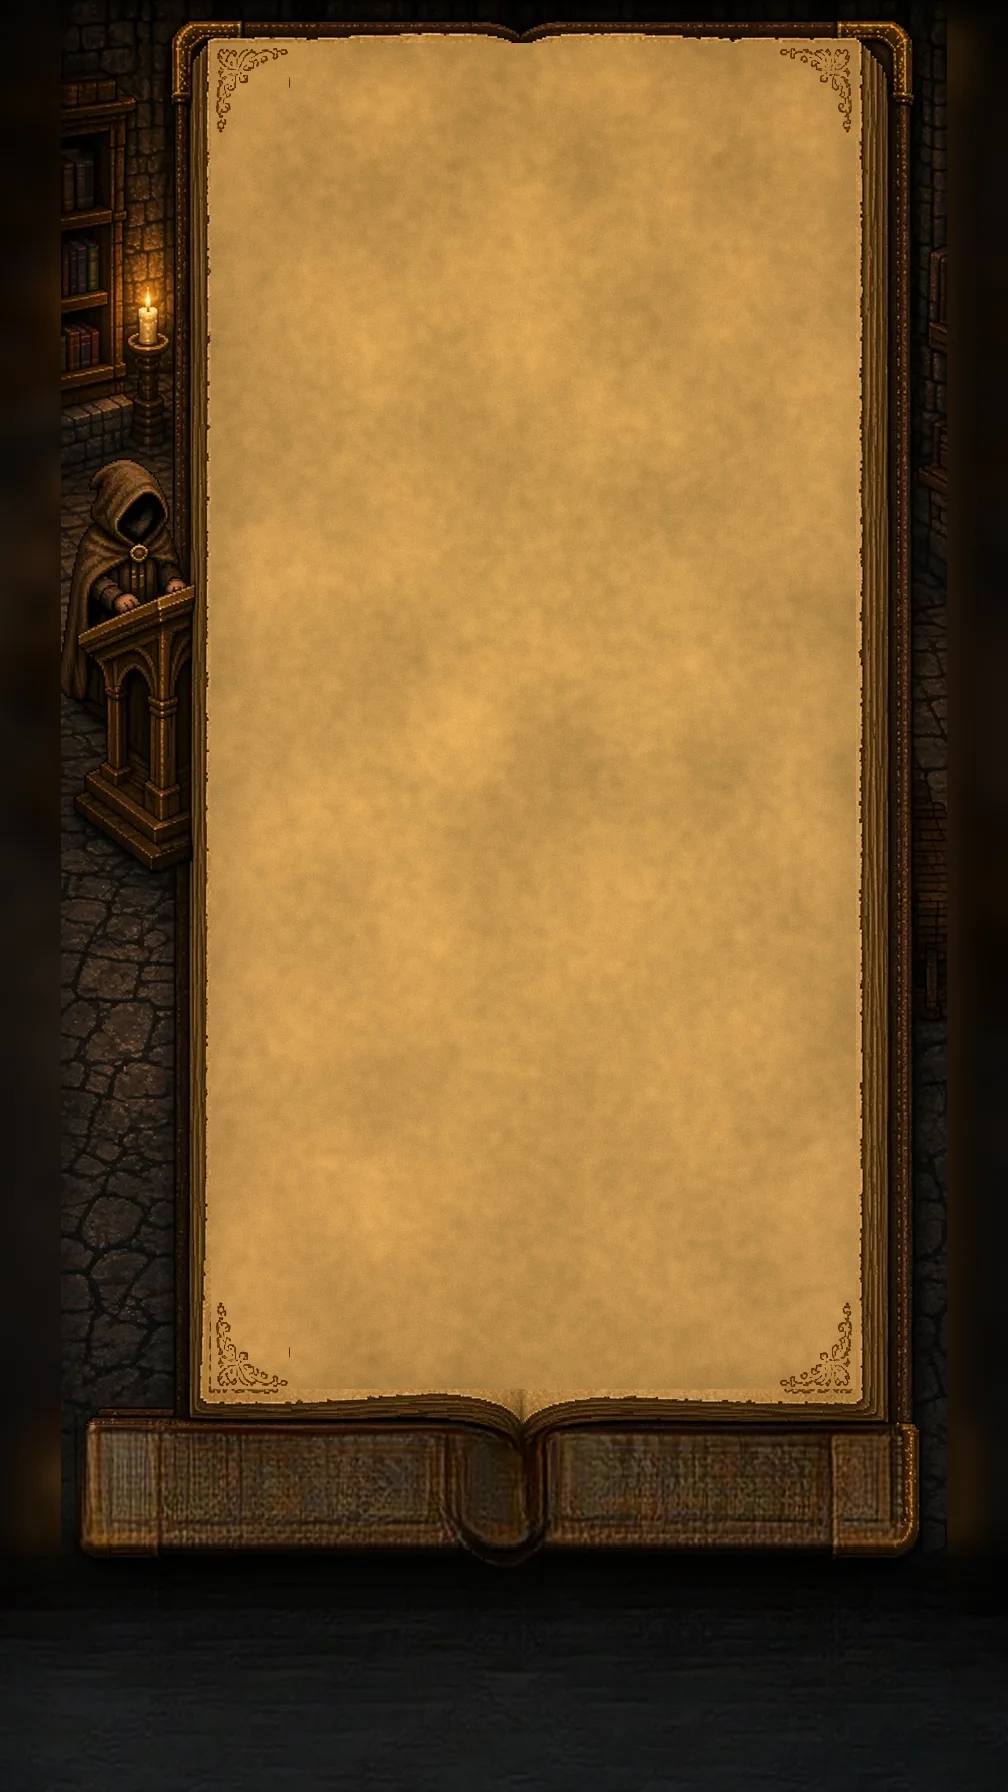
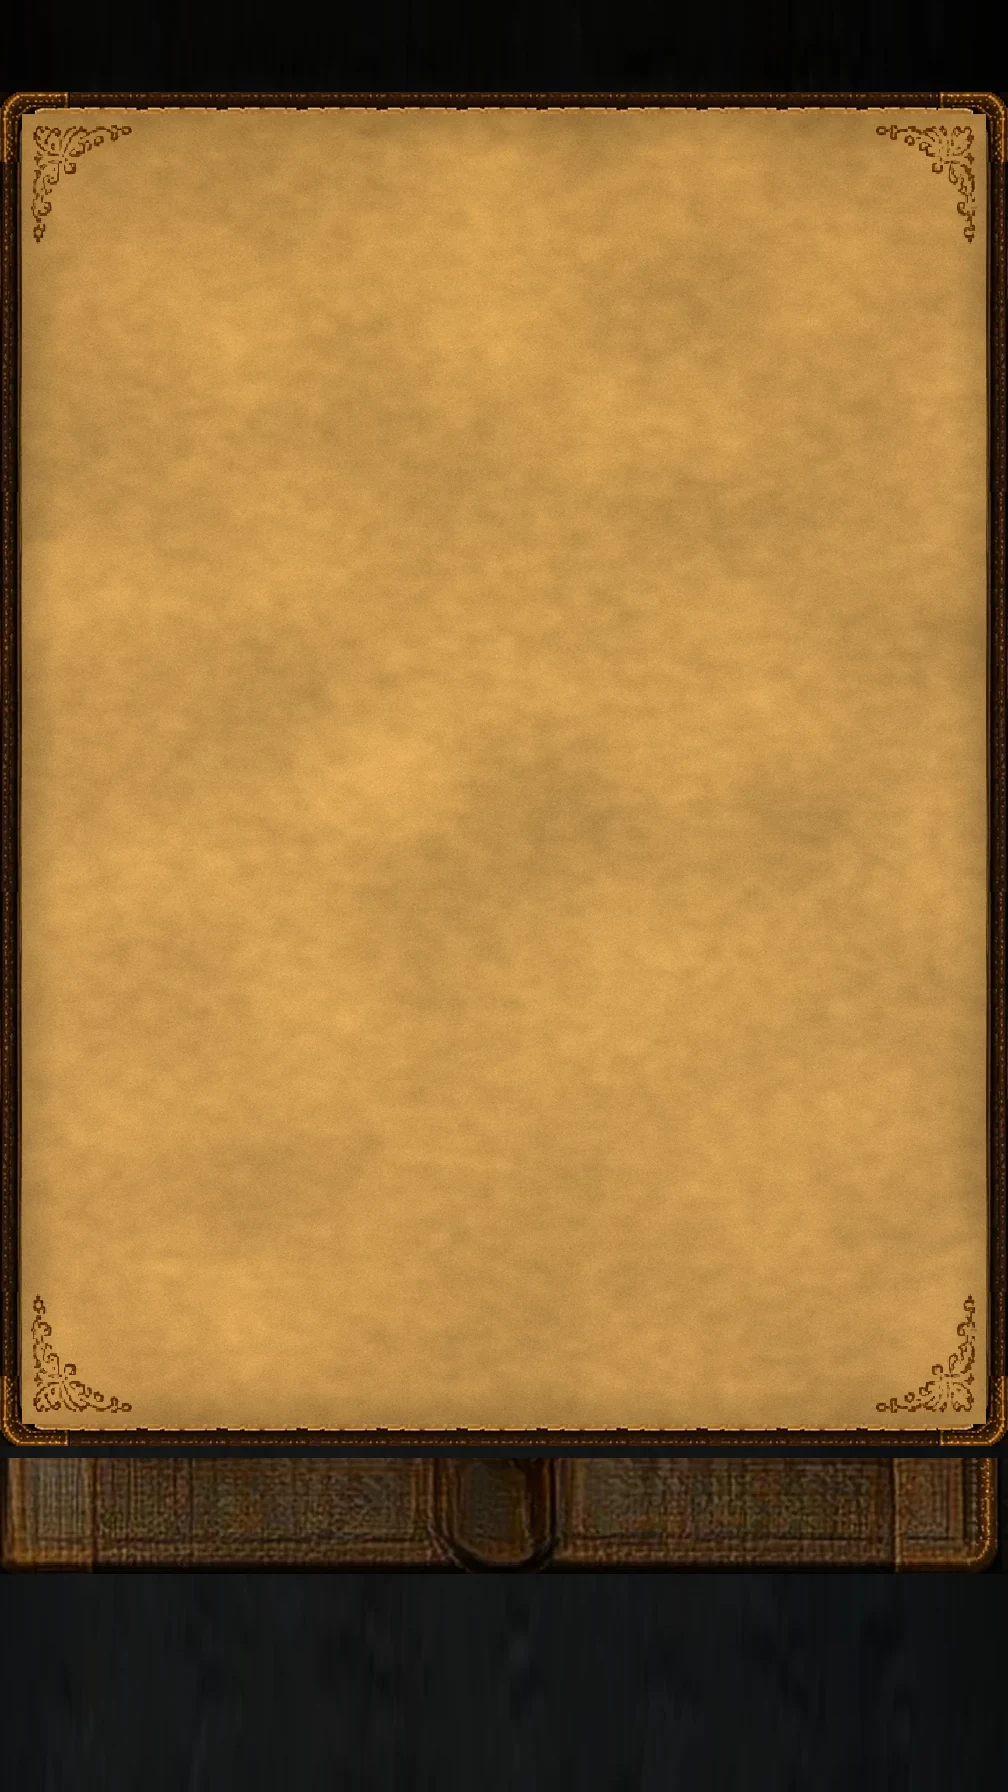
Full-width Ledger background and updated SPEC

diff --git a/art/keep/ledger-ui/SPEC.md b/art/keep/ledger-ui/SPEC.md
@@ -57,3 +57,28 @@
 
 ## Mock
 - `out/ledger-kit-mock.jpg`: original on the left, re-composed from the kit on the right (7 Keep cards at 0.8 scale, 8 stalls). Rebuild with `sprites_work/ledger_mock.py`. The stall piece is rebuilt with `sprites_work/ledger_kit_stall.py` and the other pieces with `sprites_work/ledger_kit.py`.
+
+## Full-width background (current `../ledger-v3.webp`)
+- 1008×1792, made by `sprites_work/ledger_wide.py` with no AI generation. The narrow version is backed up at `keep_ledger_old/ledger-v3-narrow.webp`.
+- 0–92: dark strip for the app header.
+- Gold-studded book-cover frame, 22 px thick: outer edge x 0–1008, y 92–1446.
+- Parchment page interior: x 22, y 114, w 964, h 1310 (to y 1424). Corner flourishes are scaled 1.4× and sit about 105×123 px in each corner.
+- Writing area (clear of flourishes): x 40, y 130, w 928, h 1280. Keep the rows between the corner flourishes, or inset to x 140–868, at y < 245 and y > 1300.
+- Wooden board for Swap/Send: y 1458–1574, full width.
+- 1580+: dark strip for the tab bar.
+
+## Suggested scale at the full width (matches the other tabs)
+| piece | scale | size | layout |
+|---|---|---|---|
+| title.webp | 1.3 | 754×159 | centred, y 124 |
+| capital-T.webp | 1.3 | 107×125 | (60, 292), with the heading text at x ≈ 181, 46 px |
+| card-frame / card-empty | **1.65** | 290×381 | 3 columns, x = 53 / 359 / 665, gap 16 |
+| portraits (in cards) | 2× NEAREST | 288×224 | top-centre of the card, +24 px |
+| card name / star | 44 px font / star 1.5× | — | name at card bottom −76, star at −50 |
+| divider.webp | 1.6 | 928×42 | centred, heading 44 px |
+| stall-frame.webp | **1.5** | 216×258 | 4 columns, x = 54 / 282 / 510 / 738, gap 12 |
+| portraits (in stalls) | 1.5× NEAREST | 216×168 | |
+| seals | 1.5 | 60×60 | (x+146, y+180) |
+| btn-swap / btn-send / cross | 1.0–1.25 | 246×92 / 310×92 / 68×80 | on the board, y ≈ 1470 |
+- Two rows of cards fill the page to about y 1220. With 7 Keep dragons plus the Stables, the content inside the page interior (y ≈ 420–1420) must scroll. The title and heading can stay fixed.
+- Mock: `out/ledger-wide-mock.jpg` (original on the left, new full-width layout on the right), built by `sprites_work/ledger_wide_mock.py`.
